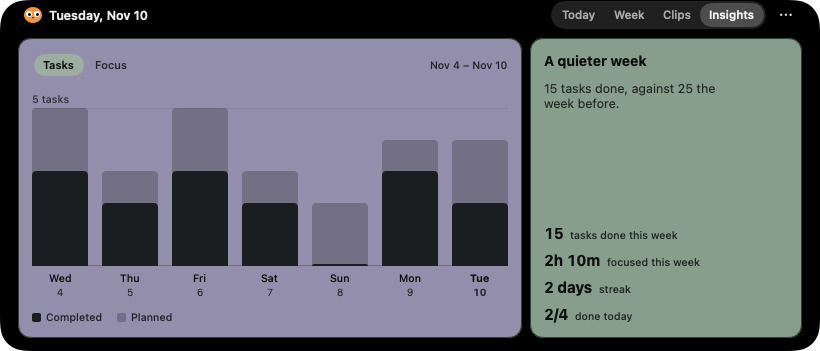
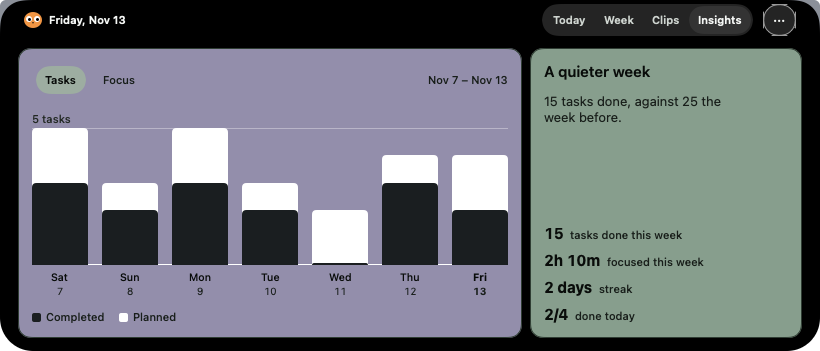
docs: 1.2.0 README screenshots and Insights changelog wording (#66)
Screenshots come from the release build's sample data. The changelog now says
the side-by-side planned/completed bars are in the Dashboard chart.

diff --git a/CHANGELOG.md b/CHANGELOG.md
@@ -30,7 +30,8 @@ All notable user-facing changes to Perch. Versions follow [Semantic Versioning](
 - Today keeps actions visible on every row and puts short task actions on the title line, so more
   tasks fit. Capture and Undo stay pinned below the list, and overdue tasks open in an on-demand
   review instead of a banner.
-- Insights stacks its cards at narrow widths and shows planned and completed tasks side by side.
+- Insights stacks its cards at narrow widths. The Dashboard chart shows planned and completed
+  tasks side by side instead of stacking them.
 - Screenshot watching for Clips is now an explicit choice in Welcome and stays off until you
   turn it on. Clip actions are always visible.
 - Built-in displays never get a drawn notch. Drawing one on external monitors is off by default.

diff --git a/README.md b/README.md
@@ -8,7 +8,7 @@ Hover the notch or press **⌥N** (configurable in Settings). Type or dictate a 
 Today stays compact; charts live on a separate Insights tab.
 
 <p align="center">
-  <img src="docs/images/today.png" width="820" alt="Perch Today page: three tasks on the left and a running 50-minute focus timer on the right">
+  <img src="docs/images/today.png" width="820" alt="Perch Today page: tasks with Details and Delete on each row, and a running 45-minute focus timer on the right">
 </p>
 <p align="center">
   <img src="docs/images/insights.png" width="820" alt="Perch Insights page: completed and planned tasks for the last seven days, with weekly totals and streak">
